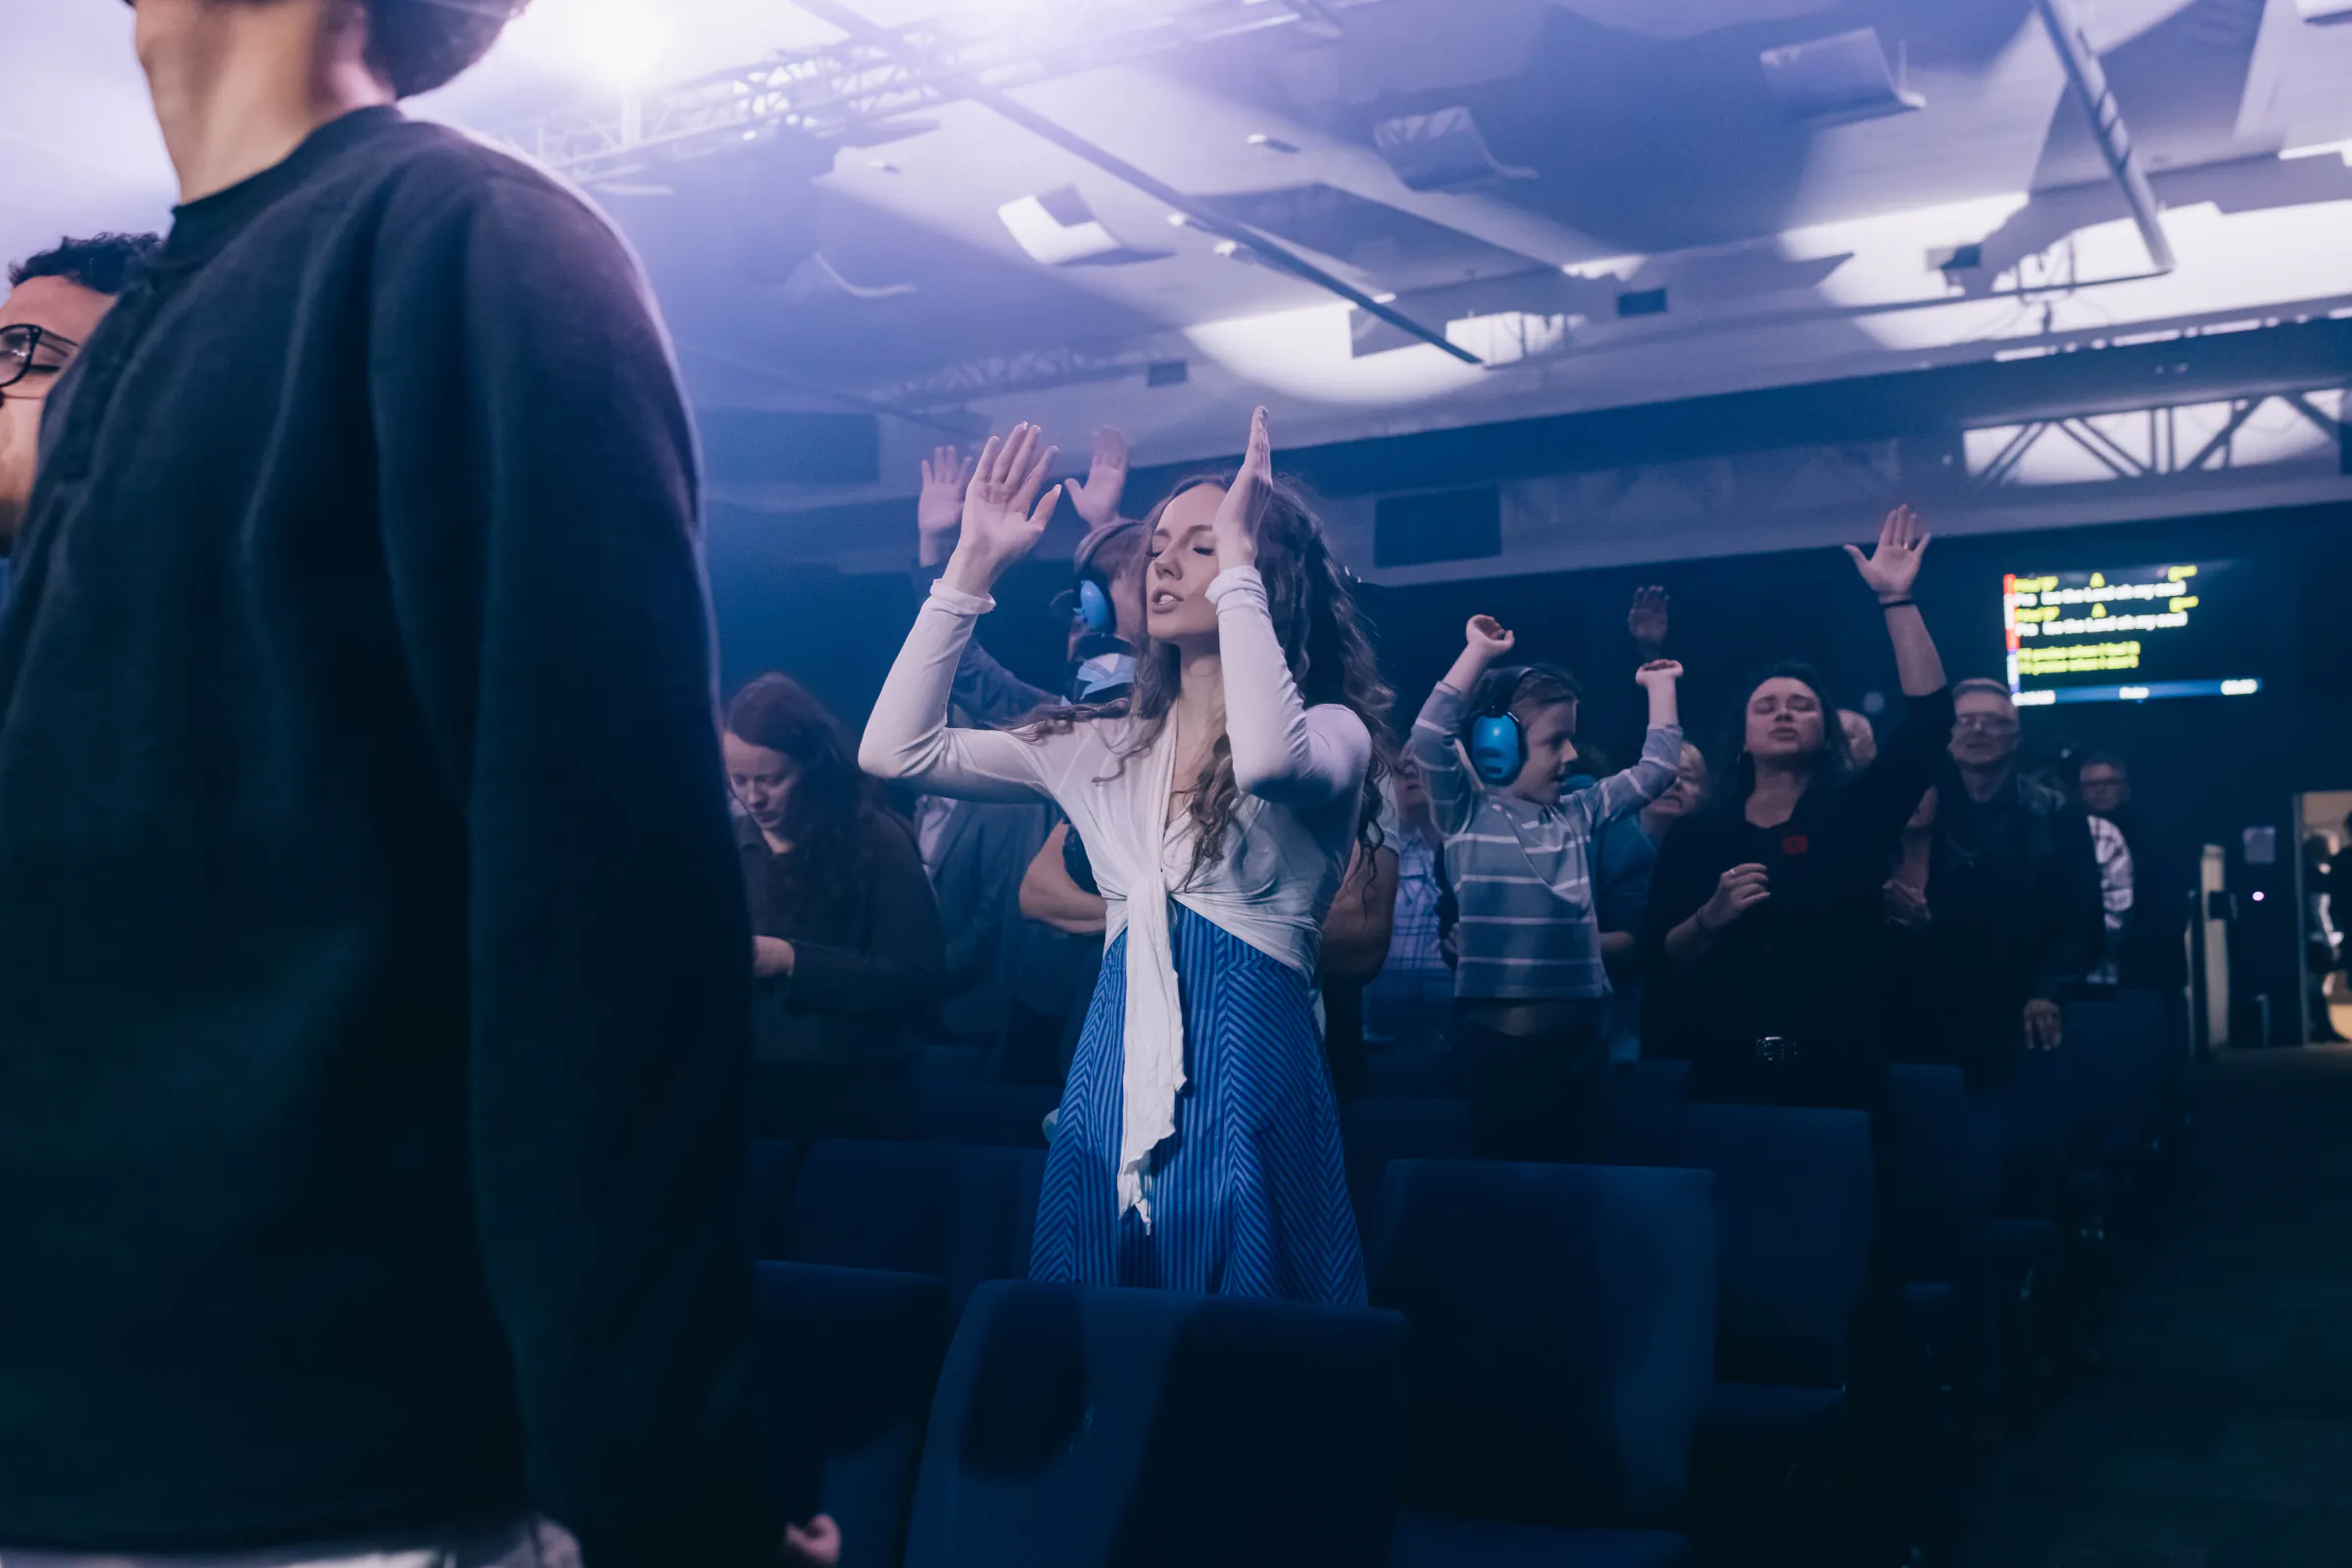
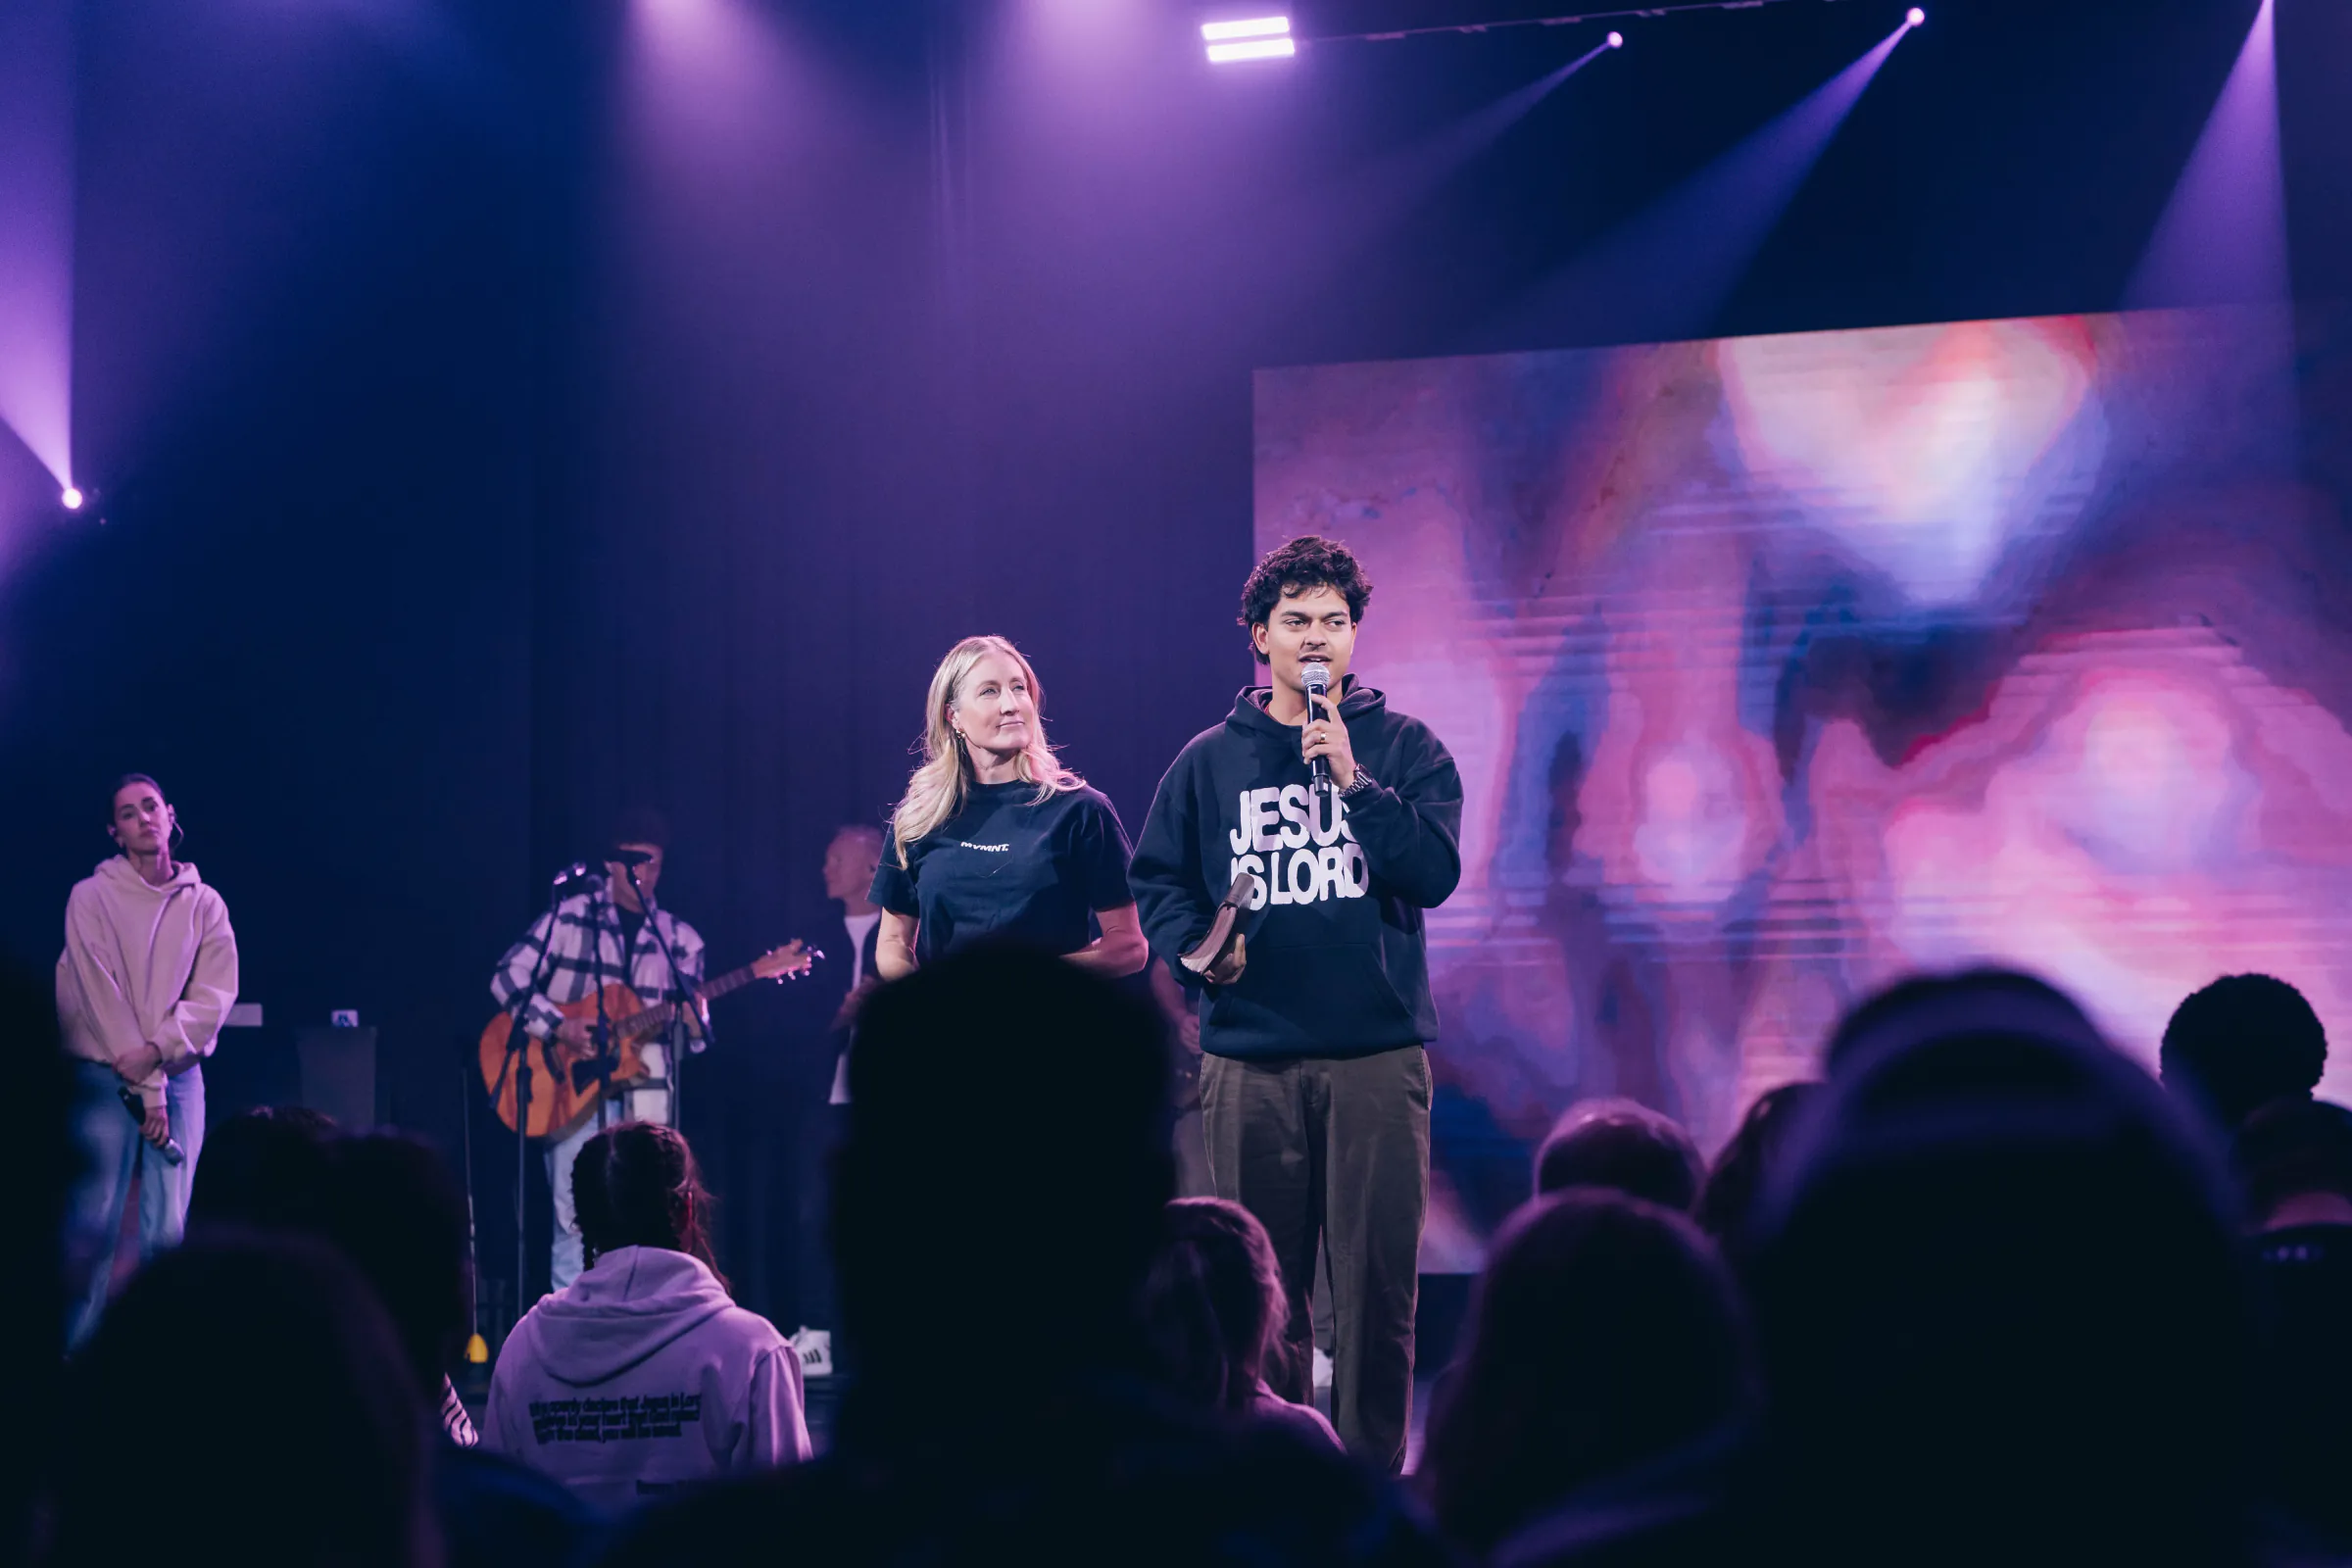
Teams: every card has a photo in an even 4x3 grid; Give: new verse band
- Teams: Kids, Youth, Maintenance, Finances, Leadership and Local
  Missions now have photos (from the current site's assets); all cards
  same height, Connections and Local Missions span two columns, so the
  grid fills with no gaps. Local Missions no longer reuses the BBQ photo
  that's on the Give page.
- Give: 1 John 4:19 band now a wide stage shot (26_11_01) that holds up
  to the band's wide crop.

diff --git a/teams.html b/teams.html
@@ -34,7 +34,7 @@
 
 <!-- Styles -->
 <!-- bump every ?v= number (css and js, all pages) after changing them so browsers fetch the new versions -->
-<link rel="stylesheet" href="css/style.css?v=19">
+<link rel="stylesheet" href="css/style.css?v=20">
 <!-- Structured data for search engines -->
 <script type="application/ld+json">
 {
@@ -165,16 +165,16 @@
   </div>
 
   <div class="team-grid">
-    <a class="team team--photo reveal" href="https://wearemovement.churchcenter.com/people/forms/989562" style="background-image:url('img/teams-parking.webp')">
+    <a class="team team--photo team--wide reveal" href="https://wearemovement.churchcenter.com/people/forms/989562" style="background-image:url('img/teams-parking.webp')">
       <h3>Connections</h3>
       <p>You&rsquo;re the first impression people receive at Movement Church. Whether it&rsquo;s parking, greeting, serving in the caf&eacute;, or ushering &mdash; you help create a warm and welcoming environment that sets the tone for Sundays and Wednesday nights.</p>
     </a>
-    <a class="team reveal" href="kids.html">
+    <a class="team team--photo reveal" href="kids.html" style="background-image:url('img/teams-kids.webp')">
       <h3>Kids</h3>
       <p>Our Kids Ministry is all about planting seeds of faith in the next generation. Serve on Sunday mornings by creating a fun, safe, and meaningful space where children can learn about Jesus in ways they&rsquo;ll remember forever.</p>
       <span class="way-link">More info <span aria-hidden="true">&#8594;</span></span>
     </a>
-    <a class="team reveal" href="youth.html">
+    <a class="team team--photo reveal" href="youth.html" style="background-image:url('img/teams-youth.webp')">
       <h3>Youth</h3>
       <p>Join the Movement Youth team and make a real impact in the next generation! Serve every Wednesday as we lead, mentor, and inspire students to grow in faith, fun, and community.</p>
       <span class="way-link">More info <span aria-hidden="true">&#8594;</span></span>
@@ -191,19 +191,19 @@
       <h3>Special Events</h3>
       <p>From conferences and parties to outreach and celebrations, we go all out. If you&rsquo;re organized, love planning, or just enjoy rolling up your sleeves to help things run smoothly, this is a great place to serve and make big things happen.</p>
     </a>
-    <a class="team team--photo reveal" href="https://wearemovement.churchcenter.com/people/forms/989562" style="background-image:url('img/teams-missions.webp')">
-      <h3>Local Missions</h3>
-      <p>Be the hands and feet of Jesus in Oxford County. Whether it&rsquo;s handing out care packages, running community nights, or serving those in need &mdash; the Local Missions team is all about practical love and real impact.</p>
-    </a>
-    <a class="team reveal" href="https://wearemovement.churchcenter.com/people/forms/989562">
+    <a class="team team--photo reveal" href="https://wearemovement.churchcenter.com/people/forms/989562" style="background-image:url('img/teams-maintenance.webp')">
       <h3>Maintenance</h3>
       <p>Got skills in repairs, construction, or just love fixing things? From lightbulbs and painting to bigger projects like drywall or renos &mdash; the Maintenance Team helps keep our facilities safe, functional, and beautiful.</p>
     </a>
-    <a class="team reveal" href="https://wearemovement.churchcenter.com/people/forms/989562">
+    <a class="team team--photo team--wide reveal" href="https://wearemovement.churchcenter.com/people/forms/989562" style="background-image:url('img/teams-missions2.webp')" >
+      <h3>Local Missions</h3>
+      <p>Be the hands and feet of Jesus in Oxford County. Whether it&rsquo;s handing out care packages, running community nights, or serving those in need &mdash; the Local Missions team is all about practical love and real impact.</p>
+    </a>
+    <a class="team team--photo reveal" href="https://wearemovement.churchcenter.com/people/forms/989562" style="background-image:url('img/teams-finances.webp')">
       <h3>Finances</h3>
       <p>Our Finance Team plays a vital behind-the-scenes role in making ministry happen. If you&rsquo;re detail-oriented, trustworthy, and passionate about stewarding resources well, this team helps ensure everything runs with excellence.</p>
     </a>
-    <a class="team reveal" href="https://wearemovement.churchcenter.com/people/forms/989562">
+    <a class="team team--photo reveal" href="https://wearemovement.churchcenter.com/people/forms/989562" style="background-image:url('img/teams-leadership.webp')">
       <h3>Leadership</h3>
       <p>Do you feel a call to lead? Whether it&rsquo;s launching a small group, mentoring others, or serving in a leadership capacity like our board, this team is for those ready to step into a deeper level of responsibility and spiritual impact.</p>
     </a>

diff --git a/css/style.css b/css/style.css
@@ -944,11 +944,13 @@ a.way{color:inherit}
 .team h3{font-size:clamp(20px,1.9vw,24px)}
 .team p{font-size:14.5px;color:var(--ink2);line-height:1.55}
 .team .way-link{margin-top:auto}
-.team--photo{grid-row:span 2;background-color:var(--ink);background-size:cover;background-position:center;border:none;color:#fff;justify-content:flex-end}
+.team--photo{min-height:340px;background-color:var(--ink);background-size:cover;background-position:center;border:none;color:#fff;justify-content:flex-end}
 .team--photo::after{content:"";position:absolute;inset:0;z-index:-1;background:linear-gradient(0deg,rgba(10,12,14,.92) 30%,rgba(10,12,14,.2) 75%)}
 .team--photo p{color:rgba(255,255,255,.85)}
+.team--wide{grid-column:span 2}
+.team--photo .way-link{color:#8fe8e0}
 @media (max-width:1000px){.team-grid{grid-template-columns:repeat(2,minmax(0,1fr))}}
-@media (max-width:560px){.team-grid{grid-template-columns:1fr}.team--photo{grid-row:auto;min-height:340px}}
+@media (max-width:560px){.team-grid{grid-template-columns:1fr}.team--wide{grid-column:auto}}
 
 /* -- kids -- */
 /* the logo's MOVEMENT is white, so it sits on a dark badge */

diff --git a/give.html b/give.html
@@ -34,7 +34,7 @@
 
 <!-- Styles -->
 <!-- bump every ?v= number (css and js, all pages) after changing them so browsers fetch the new versions -->
-<link rel="stylesheet" href="css/style.css?v=19">
+<link rel="stylesheet" href="css/style.css?v=20">
 <!-- Structured data for search engines -->
 <script type="application/ld+json">
 {
@@ -154,7 +154,7 @@
      PURPOSE - the verse over a photo, then why we give
      ========================================================== -->
 <section class="band give-band" id="purpose">
-  <div class="band-bg"><img src="img/give-band.webp?v=2" alt=""></div>
+  <div class="band-bg"><img src="img/give-band.webp?v=3" alt=""></div>
   <div class="band-in">
     <q>We love each other because <em>he loved us first.</em></q>
     <p class="band-cite">1 John 4:19</p>

diff --git a/about.html b/about.html
@@ -34,7 +34,7 @@
 
 <!-- Styles -->
 <!-- bump every ?v= number (css and js, all pages) after changing them so browsers fetch the new versions -->
-<link rel="stylesheet" href="css/style.css?v=19">
+<link rel="stylesheet" href="css/style.css?v=20">
 <!-- Structured data for search engines -->
 <script type="application/ld+json">
 {

diff --git a/baptism.html b/baptism.html
@@ -34,7 +34,7 @@
 
 <!-- Styles -->
 <!-- bump every ?v= number (css and js, all pages) after changing them so browsers fetch the new versions -->
-<link rel="stylesheet" href="css/style.css?v=19">
+<link rel="stylesheet" href="css/style.css?v=20">
 <!-- Structured data for search engines -->
 <script type="application/ld+json">
 {

diff --git a/care.html b/care.html
@@ -34,7 +34,7 @@
 
 <!-- Styles -->
 <!-- bump every ?v= number (css and js, all pages) after changing them so browsers fetch the new versions -->
-<link rel="stylesheet" href="css/style.css?v=19">
+<link rel="stylesheet" href="css/style.css?v=20">
 <!-- Structured data for search engines -->
 <script type="application/ld+json">
 {

diff --git a/club56.html b/club56.html
@@ -34,7 +34,7 @@
 
 <!-- Styles -->
 <!-- bump every ?v= number (css and js, all pages) after changing them so browsers fetch the new versions -->
-<link rel="stylesheet" href="css/style.css?v=19">
+<link rel="stylesheet" href="css/style.css?v=20">
 <!-- Structured data for search engines -->
 <script type="application/ld+json">
 {

diff --git a/financial-resources.html b/financial-resources.html
@@ -34,7 +34,7 @@
 
 <!-- Styles -->
 <!-- bump every ?v= number (css and js, all pages) after changing them so browsers fetch the new versions -->
-<link rel="stylesheet" href="css/style.css?v=19">
+<link rel="stylesheet" href="css/style.css?v=20">
 <!-- Structured data for search engines -->
 <script type="application/ld+json">
 {

diff --git a/groups.html b/groups.html
@@ -34,7 +34,7 @@
 
 <!-- Styles -->
 <!-- bump every ?v= number (css and js, all pages) after changing them so browsers fetch the new versions -->
-<link rel="stylesheet" href="css/style.css?v=19">
+<link rel="stylesheet" href="css/style.css?v=20">
 <!-- Structured data for search engines -->
 <script type="application/ld+json">
 {

diff --git a/index.html b/index.html
@@ -34,7 +34,7 @@
 
 <!-- Styles -->
 <!-- bump every ?v= number (css and js, all pages) after changing them so browsers fetch the new versions -->
-<link rel="stylesheet" href="css/style.css?v=19">
+<link rel="stylesheet" href="css/style.css?v=20">
 <!-- Structured data for search engines -->
 <script type="application/ld+json">
 {

diff --git a/job-opportunities.html b/job-opportunities.html
@@ -34,7 +34,7 @@
 
 <!-- Styles -->
 <!-- bump every ?v= number (css and js, all pages) after changing them so browsers fetch the new versions -->
-<link rel="stylesheet" href="css/style.css?v=19">
+<link rel="stylesheet" href="css/style.css?v=20">
 <!-- Structured data for search engines -->
 <script type="application/ld+json">
 {

diff --git a/kids.html b/kids.html
@@ -34,7 +34,7 @@
 
 <!-- Styles -->
 <!-- bump every ?v= number (css and js, all pages) after changing them so browsers fetch the new versions -->
-<link rel="stylesheet" href="css/style.css?v=19">
+<link rel="stylesheet" href="css/style.css?v=20">
 <!-- Structured data for search engines -->
 <script type="application/ld+json">
 {
